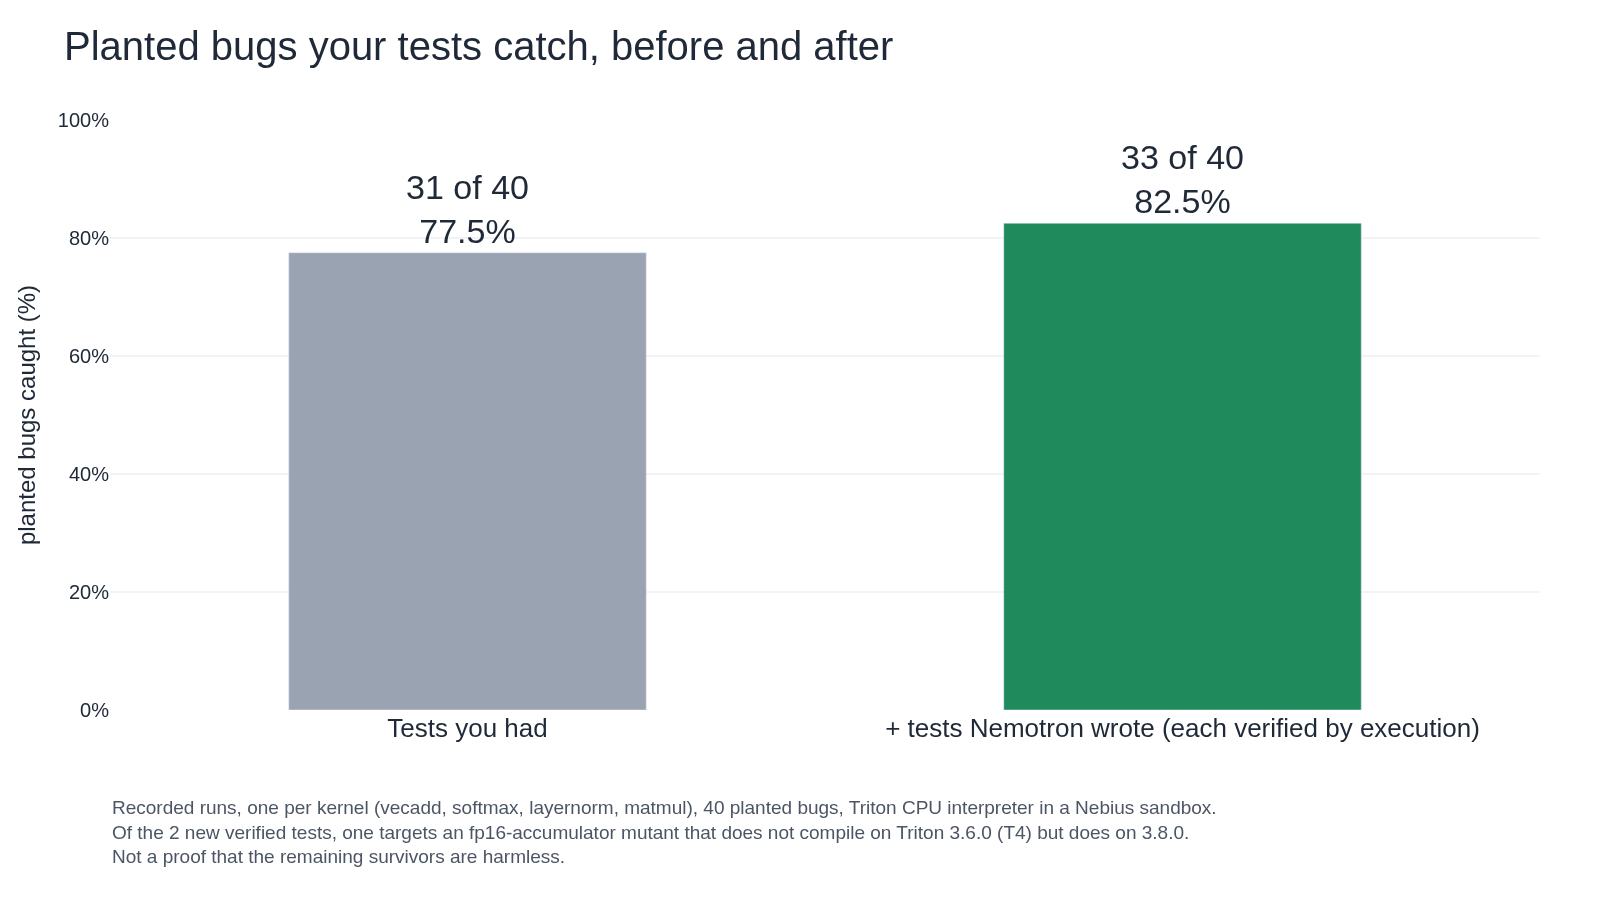
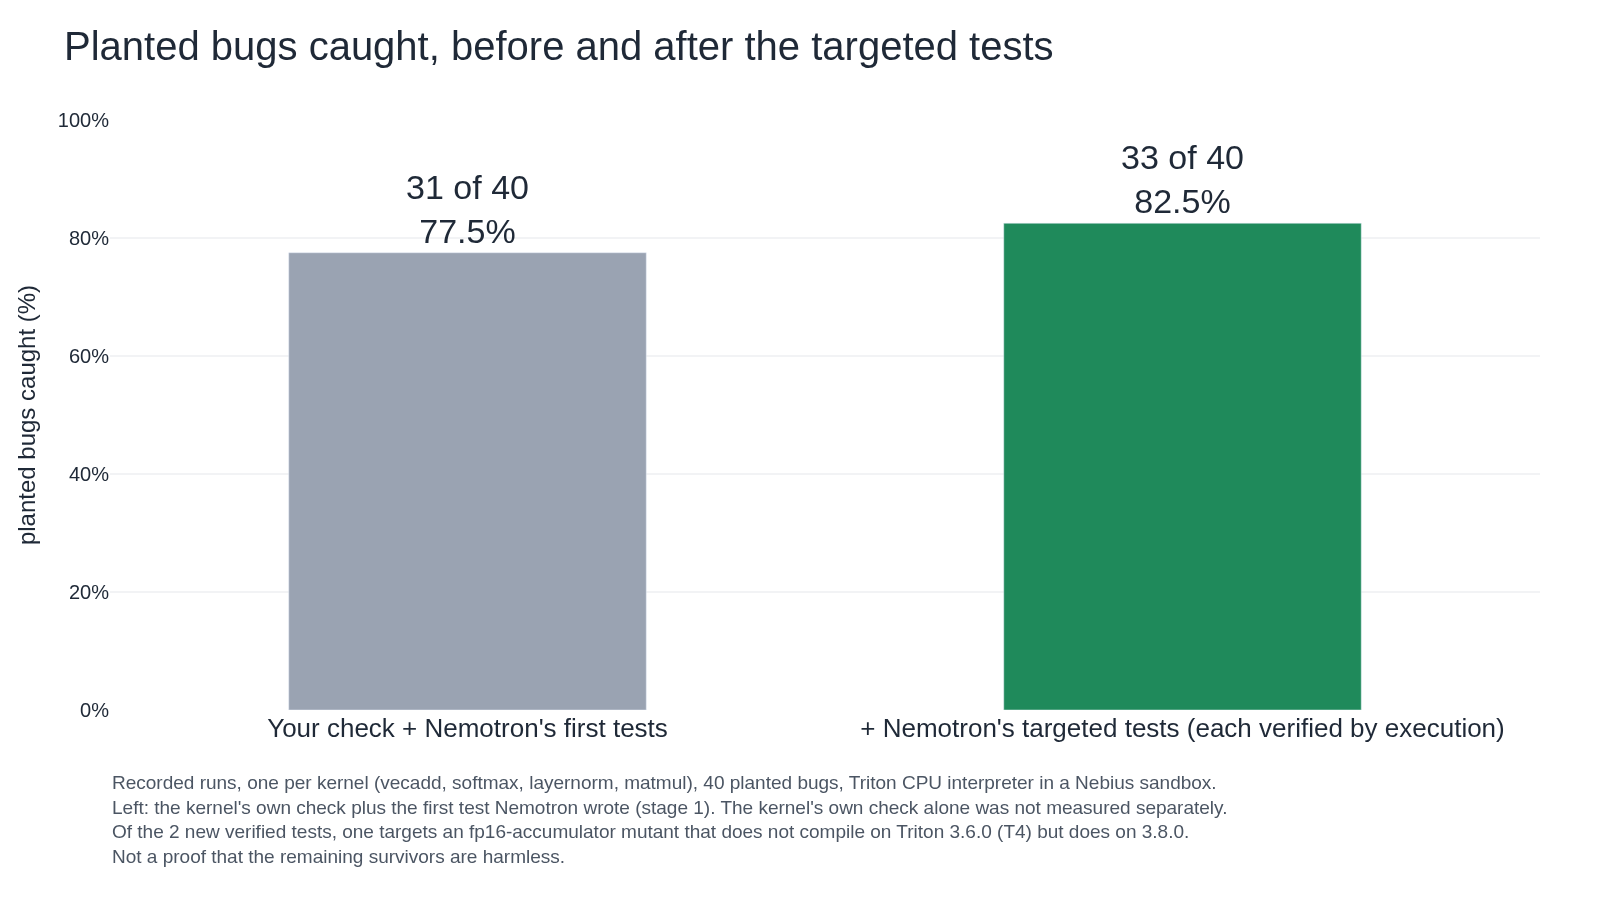
charts: label the 31/40 bar as the kernel's own check plus Nemotron's first test (the check alone was not measured)

Changed region(s): [[0.0625, 0.7778, 0.9375, 0.9333], [0.1875, 0.0311, 0.6562, 0.0933]]

diff --git a/charts/make_results.py b/charts/make_results.py
@@ -37,16 +37,17 @@ def save(fig, name, width=1600, height=900):
 # 1. share of planted bugs the tests catch, before and after Nemotron's verified tests
 before, after = caught / planted, (caught + killed) / planted
 fig = go.Figure(go.Bar(
-    x=["Tests you had", "+ tests Nemotron wrote\n(each verified by execution)"], y=[before * 100, after * 100],
+    x=["Your check + Nemotron's first tests", "+ Nemotron's targeted tests\n(each verified by execution)"], y=[before * 100, after * 100],
     marker_color=[GREY, GREEN], text=[f"{caught} of {planted}<br>{before:.1%}", f"{caught + killed} of {planted}<br>{after:.1%}"],
     textposition="outside", textfont=dict(size=34), width=0.5))
 fig.update_yaxes(range=[0, 100], title="planted bugs caught (%)", ticksuffix="%", gridcolor="#e5e7eb", title_font_size=24, tickfont_size=20)
 fig.update_xaxes(tickfont_size=26)
-fig.update_layout(title=dict(text="Planted bugs your tests catch, before and after", font_size=40, x=0.04),
+fig.update_layout(title=dict(text="Planted bugs caught, before and after the targeted tests", font_size=40, x=0.04),
                   margin=dict(l=110, r=60, t=120, b=190))
 fig.add_annotation(
     x=0, y=-0.27, xref="paper", yref="paper", xanchor="left", showarrow=False, align="left", font=dict(size=19, color="#4b5563"),
     text=(f"Recorded runs, one per kernel (vecadd, softmax, layernorm, matmul), {planted} planted bugs, Triton CPU interpreter in a Nebius sandbox.<br>"
+          "Left: the kernel's own check plus the first test Nemotron wrote (stage 1). The kernel's own check alone was not measured separately.<br>"
           f"Of the {killed} new verified tests, one targets an fp16-accumulator mutant that does not compile on Triton 3.6.0 (T4) but does on 3.8.0.<br>"
           "Not a proof that the remaining survivors are harmless."))
 save(fig, "before_after")
@@ -58,7 +59,7 @@ fig = go.Figure(go.Bar(y=labels[::-1], x=vals[::-1], orientation="h", marker_col
                        textposition="outside", textfont=dict(size=34), width=0.55))
 fig.update_xaxes(range=[0, max(vals) + 1.2], dtick=1, title="surviving bugs", gridcolor="#e5e7eb", title_font_size=24, tickfont_size=20)
 fig.update_yaxes(tickfont_size=24)
-fig.update_layout(title=dict(text=f"What happened to the {len(survivors)} bugs the first tests missed", font_size=40, x=0.04),
+fig.update_layout(title=dict(text=f"What happened to the {len(survivors)} bugs the first round missed", font_size=40, x=0.04),
                   margin=dict(l=420, r=80, t=120, b=150))
 fig.add_annotation(x=0, y=-0.2, xref="paper", yref="paper", xanchor="left", showarrow=False, font=dict(size=19, color="#4b5563"),
                    text="Same recorded runs. 'Equivalent' answers are the model's judgement plus sampled inputs, not a proof.")
